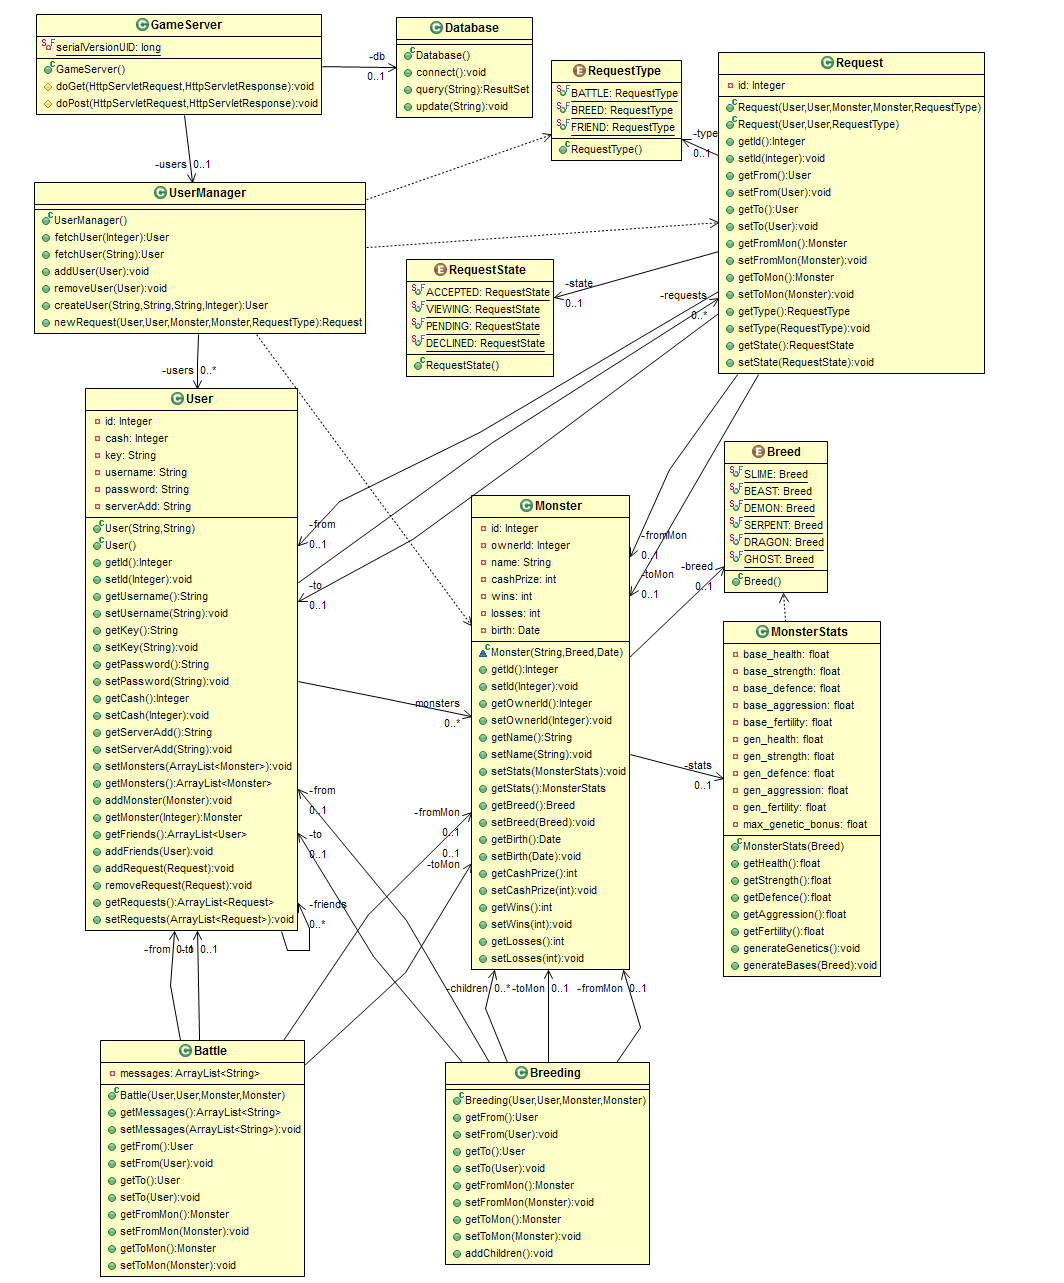
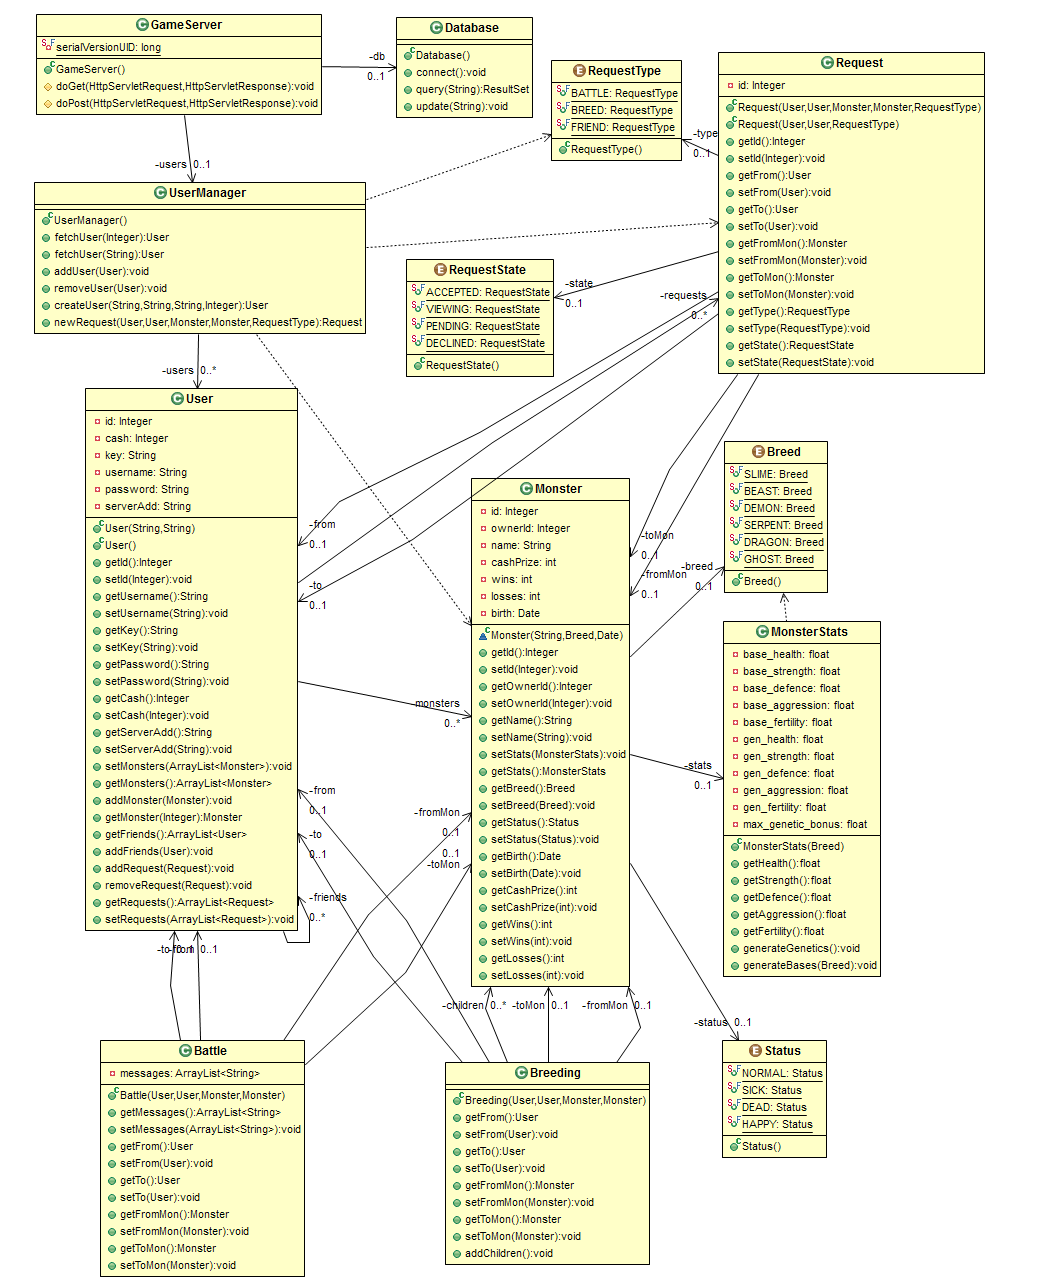
Readded status and updated diagram

diff --git a/N17/src/Java/Monster.java b/N17/src/Java/Monster.java
@@ -13,6 +13,7 @@ public class Monster {
 	private String name;
 	private MonsterStats stats;
 	private Breed breed;
+	private Status status;
 	//Cash prize is the amount a user wins when they defeat this monster.
 	private int cashPrize, wins, losses;
 	private Date birth;
@@ -63,6 +64,14 @@ public class Monster {
 	public void setBreed(Breed breed) {
 		this.breed = breed;
 	}
+	public Status getStatus() {
+		return status;
+	}
+
+	public void setStatus(Status status) {
+		this.status = status;
+	}
+
 	public Date getBirth() {
 		return birth;
 	}

diff --git a/N17/src/Java/Status.java b/N17/src/Java/Status.java
@@ -1,0 +1,8 @@
+package Java;
+
+public enum Status {
+NORMAL,
+SICK,
+DEAD,
+HAPPY
+}
